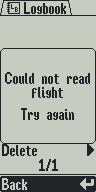
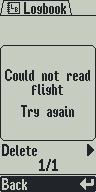
Raise shared rounded dialogs three pixels

diff --git a/sim/scripts/build_logbook_maintenance_gallery.py b/sim/scripts/build_logbook_maintenance_gallery.py
@@ -85,6 +85,7 @@ a{color:inherit}</style><h1>Logbook maintenance</h1>
 display enlargement uses nearest-neighbor scaling. Click a screen for its native PNG.</p>
 <main>''' + "".join(cards) + "</main></html>", encoding="utf-8")
     sources = [
+        "src/vario/ui/display/message_box.cpp",
         "src/vario/logbook/logbook_entry.cpp", "src/vario/comms/leaf_log_sync.cpp",
         "sim/tests/logbook_io.cpp", "sim/tests/leaf_log_sync.cpp",
         "src/vario/logbook/logbook_store.cpp", "src/vario/logbook/logbook_store.h",

diff --git a/src/vario/ui/display/message_box.cpp b/src/vario/ui/display/message_box.cpp
@@ -10,7 +10,7 @@ namespace message_box {
     constexpr int LINE_HEIGHT = 14;
     constexpr int DETAIL_GAP = 8;
     const int x = (u8g2.getDisplayWidth() - WIDTH) / 2;
-    const int y = (u8g2.getDisplayHeight() - HEIGHT) / 2;
+    const int y = (u8g2.getDisplayHeight() - HEIGHT) / 2 - 3;
 
     u8g2.setDrawColor(0);
     u8g2.drawRBox(x, y, WIDTH, HEIGHT, 5);

diff --git a/src/vario/ui/display/message_box.h b/src/vario/ui/display/message_box.h
@@ -1,6 +1,6 @@
 #pragma once
 
 namespace message_box {
-  // Draw inside the current u8g2 page pass. The 96x96 frame is centered on the LCD.
+  // Draw inside the current u8g2 page pass. The 96x96 frame sits 3 pixels above the LCD center.
   void draw(const char* first, const char* second = nullptr, const char* detail = nullptr);
 }  // namespace message_box

diff --git a/src/vario/logbook/README.md b/src/vario/logbook/README.md
@@ -100,8 +100,9 @@ changing JSON payloads or track paths. Destination collisions preserve both name
 Upload queues follow the returned filename. Both prefixes remain readable and sort together below
 dated flights using filenames only. Existing clock metadata retains its schema's `unsynced` value.
 
-Standalone saving, opening, empty/unavailable and shutdown-failure messages use a centered 96×96
-rounded frame with centered text. Shutdown details say "No IGC file" or "IGC unverified". The
+Standalone saving, loading, empty/unavailable and shutdown-failure messages use a 96×96
+rounded frame 3 pixels above the LCD center, with text centered inside. This leaves space above
+the logbook Delete row. Shutdown details say "No IGC file" or "IGC unverified". The
 inline "Logbook save failed" warning on the immediate flight summary keeps its existing layout.
 
 ## Storage tests
